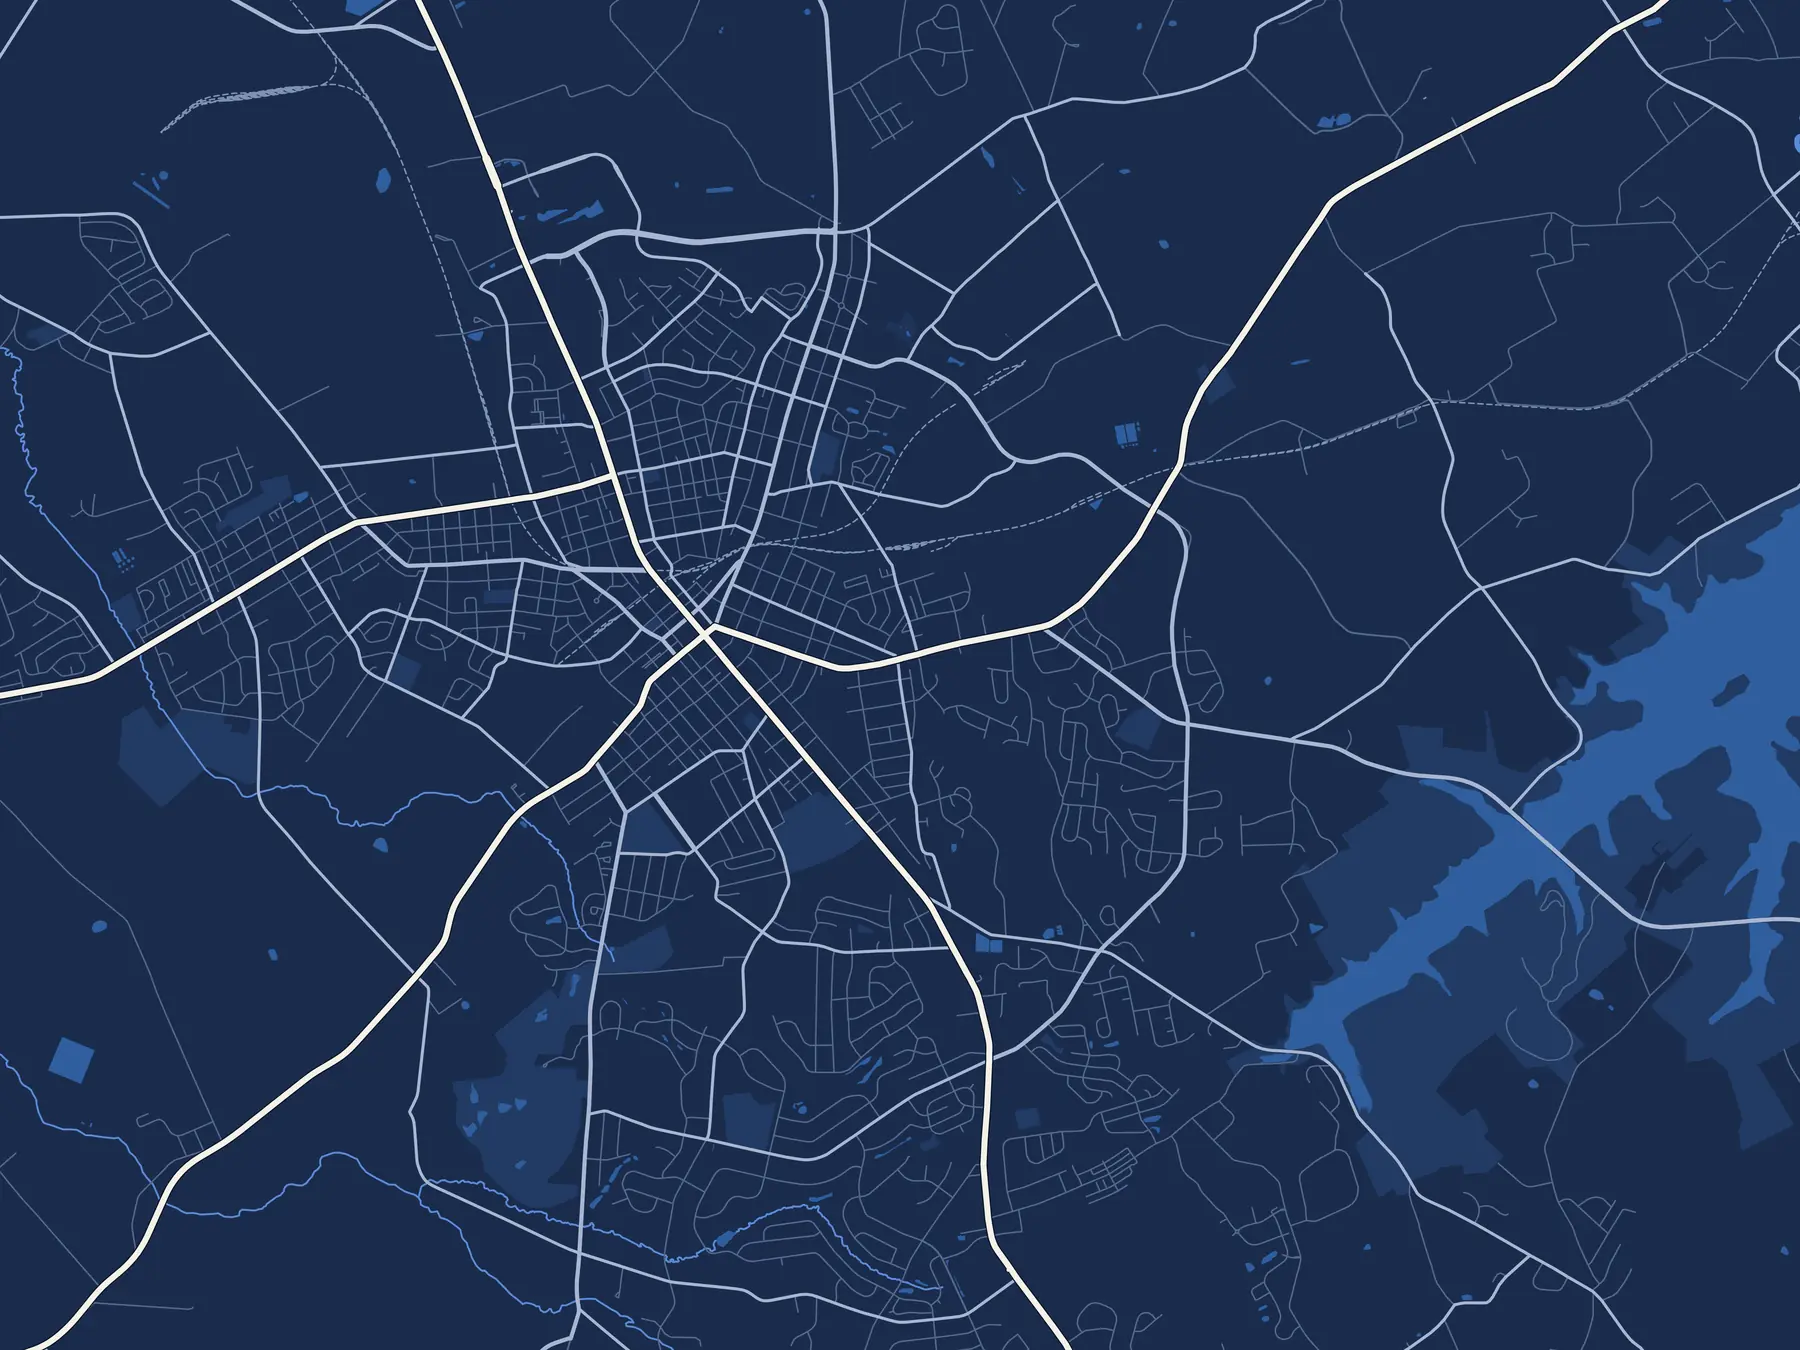
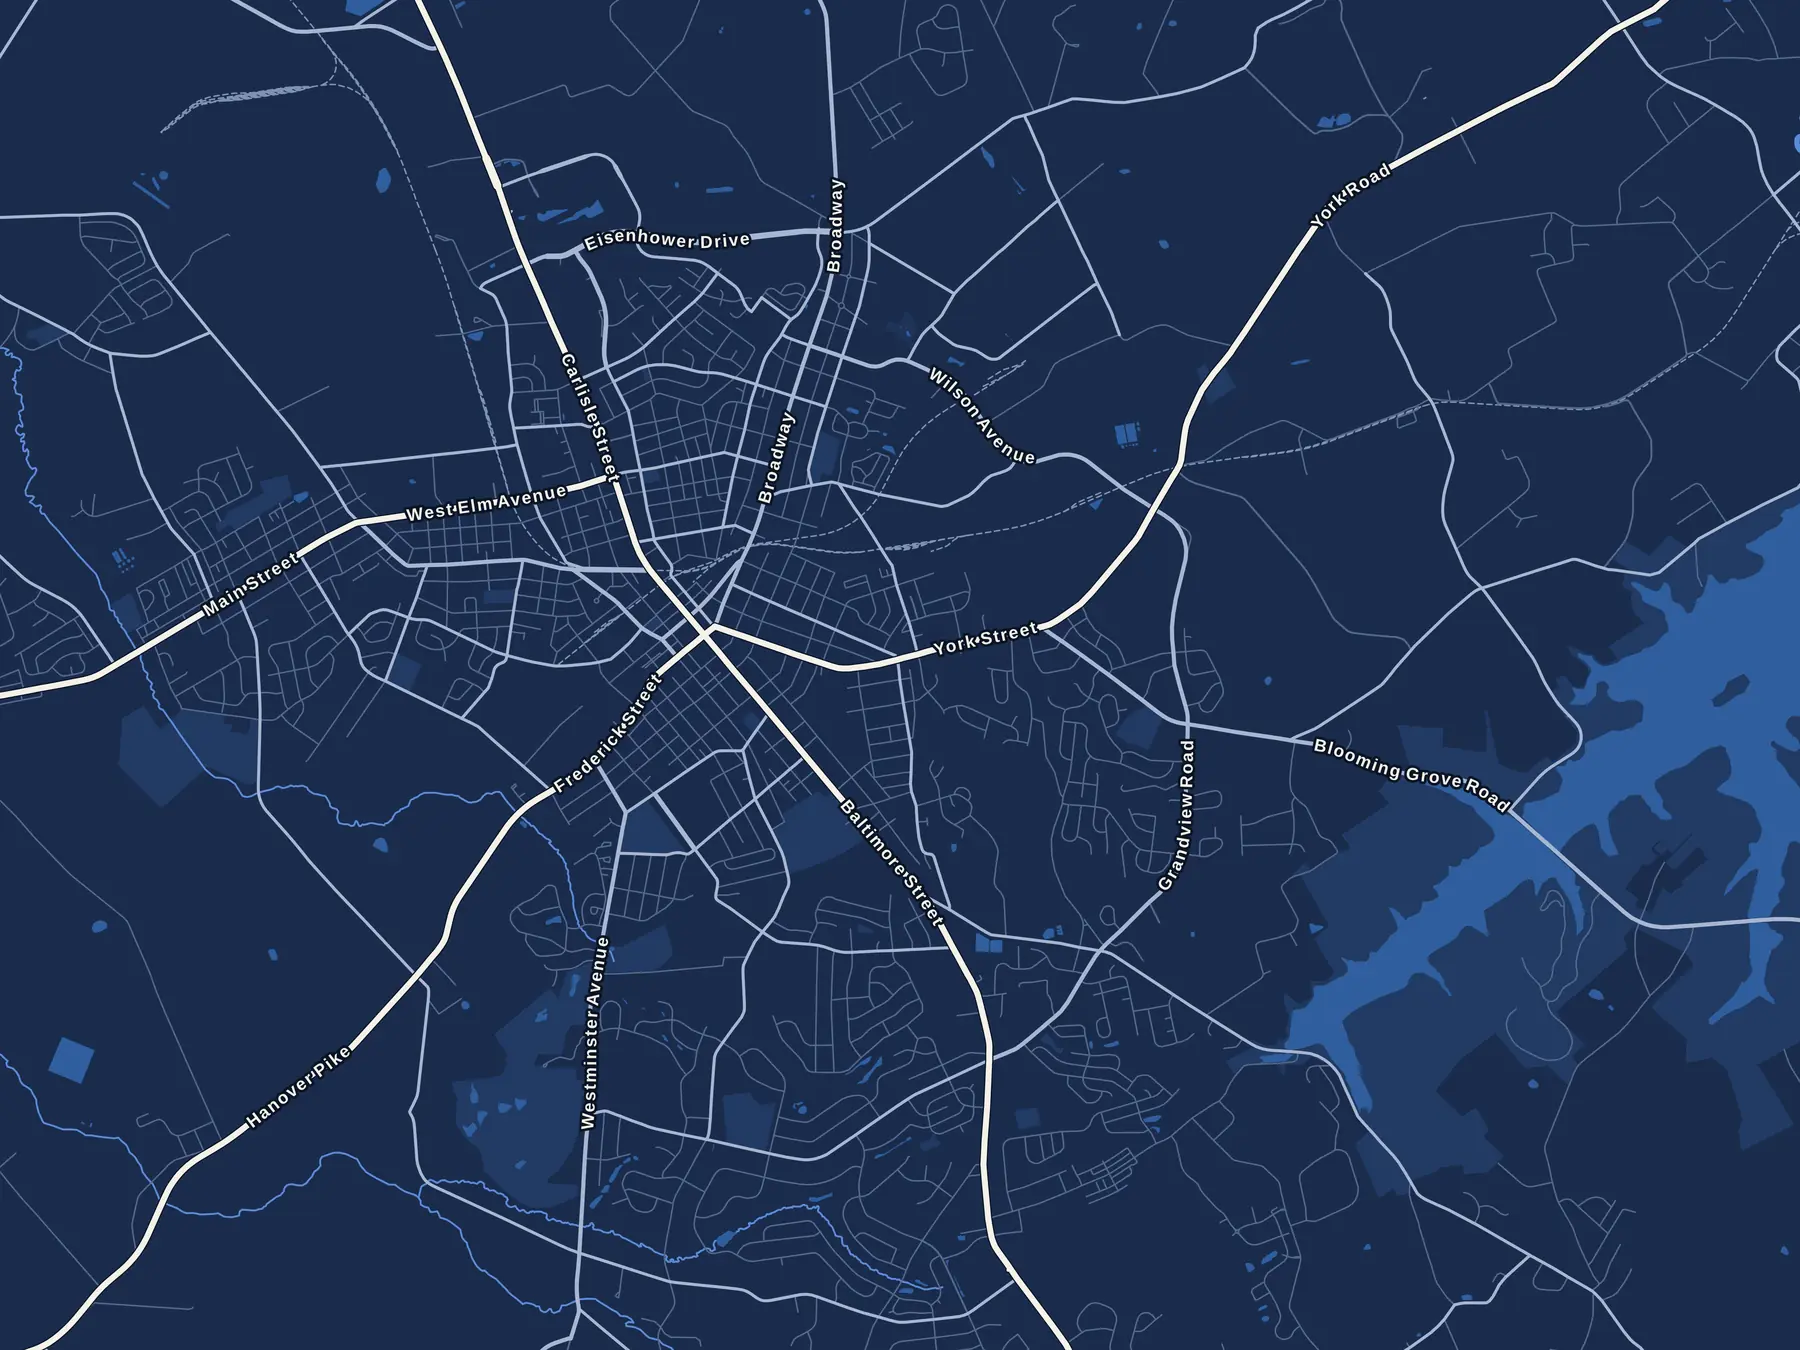
Hanover map: street names on the main roads
Randy's wife wouldn't play the Hanover map without street names (Nov 29
2026). Redrawn from the same OpenStreetMap export in the same frame (the
roads, water and parks are byte-for-byte the live map's), so every pin and
circle stays put; only the names are new. 15 main roads named, on the
road, thin outline, wider letter spacing (Randy's pick after previews),
smoothed along bends and only where the whole name fits. Side streets
stay unnamed (Moul Avenue, Eichelberger Street would give rounds away).

Tested: the Pin Drop smoke test passes (world, Central PA, Hanover,
teams). The names read on phones once zoomed; on the TV they're too small
to read (noted as an open option).

Claude-Session: https://claude.ai/code/session_014EbjEU8wfqZ7Q6ej2GmHgL

diff --git a/CLAUDE.md b/CLAUDE.md
@@ -984,8 +984,7 @@ Mode keys are used in room votes and in `gameEngine.js`:
     style: no side streets, county and state lines) **in its existing frame**
     (`fit:A,B,C,D`), so every place stayed put; Randy: "That. Is.
     Gorgeous." **Hanover** (`public/maps/hanover-map.svg`, town style, 7.7
-    miles across, ~623 px a mile; no road labels, Randy's call) is **in
-    the game** (Nov 28 2026, to test before committing): 44 places from
+    miles across, ~623 px a mile) is **in the game** (Nov 28 2026, to test before committing): 44 places from
     Randy's list (`pin_drop_hanover.sql`: his Hanover businesses -- a
     marketing angle -- landmarks, schools, parks, and three gone places as
     CLUE rounds, "Where was the old Anchor Inn?"; Hanover Shoe Farms left
@@ -997,6 +996,20 @@ Mode keys are used in room votes and in `gameEngine.js`:
     Maps screen grab is Google's map and can't be used. On the TV, the
     first-pin dots and the true spot are a set size on screen with a dark
     edge (they had shrunk to a couple of pixels on the detailed map).
+    **Street names** (Nov 29 2026; Randy's wife wouldn't play the
+    town map without them, so "no road labels" was reversed): `LABELS=1`
+    on `osm-local-map.mjs` names the motorway-to-secondary roads once along
+    their longest stretch (twice if very long), upright, never overlapping,
+    on a smoothed copy of the road so bends don't break the words, and only
+    where the whole name fits; on the road, cream with a thin dark outline
+    and slightly wide letter spacing (Randy found the first, heavy outline
+    squished; names beside the road were tried, and he chose on the road).
+    Side streets and smaller collectors stay unnamed, which keeps Moul
+    Avenue and Eichelberger Street from giving rounds away. Redrawn in the
+    same frame, so every pin stayed put (the roads were checked identical).
+    Hanover has 15 names. **They're readable on phones once zoomed a little,
+    not on the TV** (about 7 px tall on a 1080p TV's map box); bigger names
+    on fewer roads for the TV is an open option for Randy.
     **Hometown heroes** (Nov 28 2026): on a local map, when everyone who
     pinned (2+) lands inside the circle, "This crowd CRUSHED it!" drops
     onto the TV's map with a shake, in the half away from the answer, and
